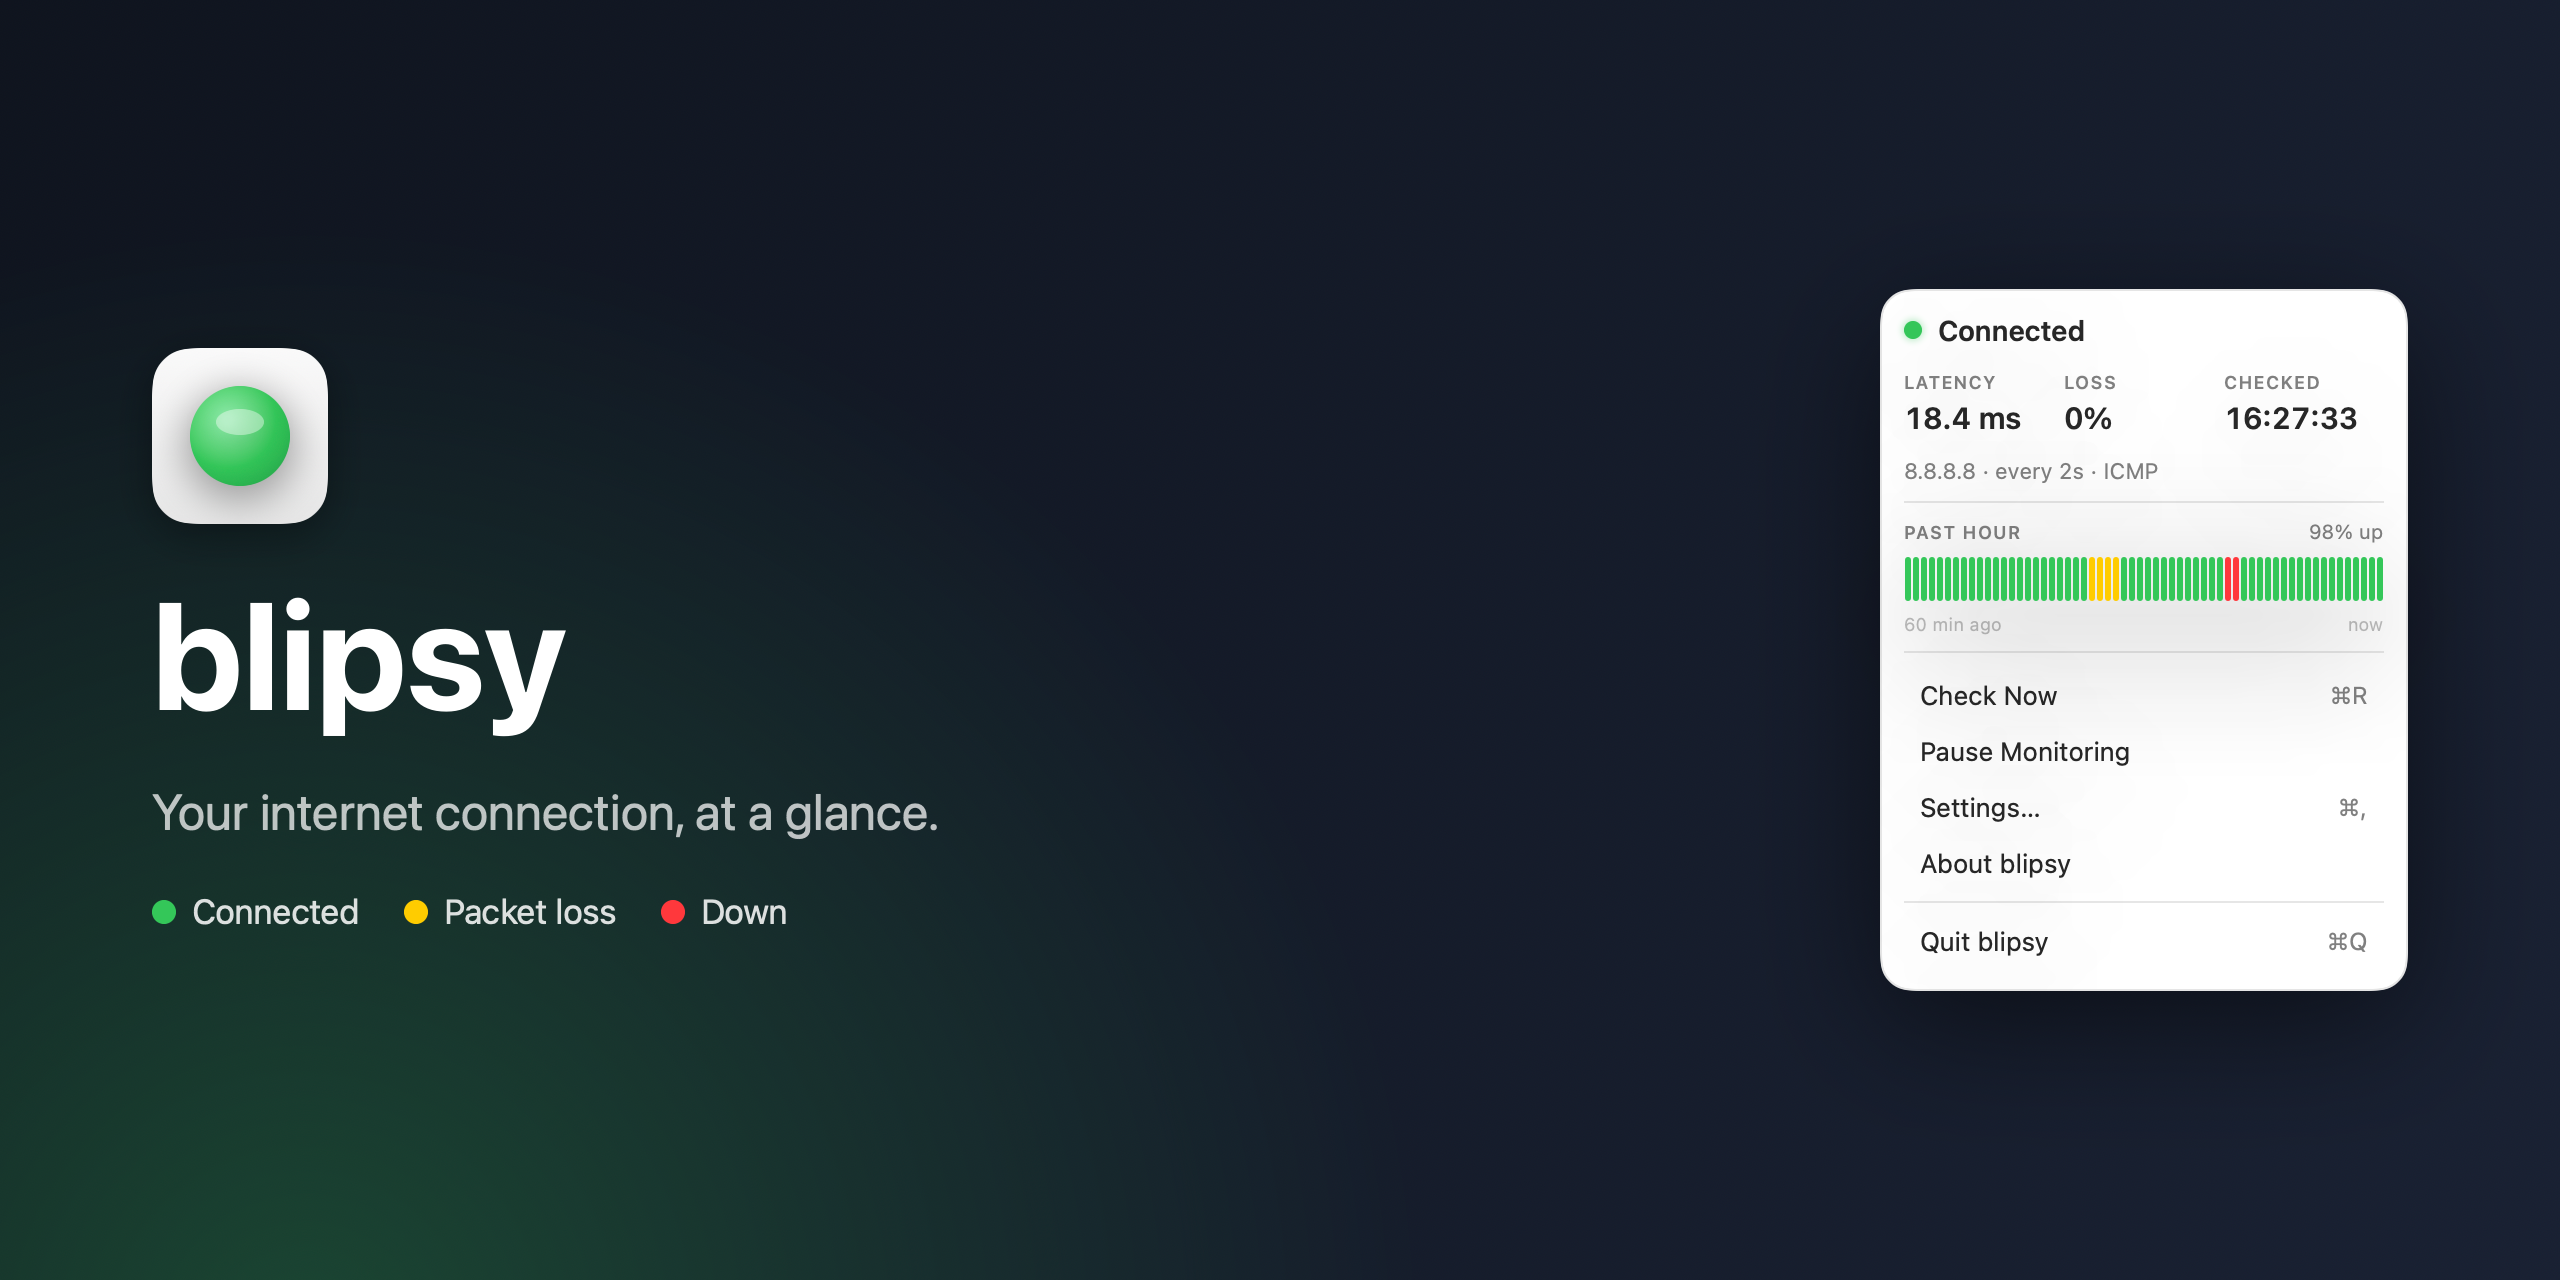
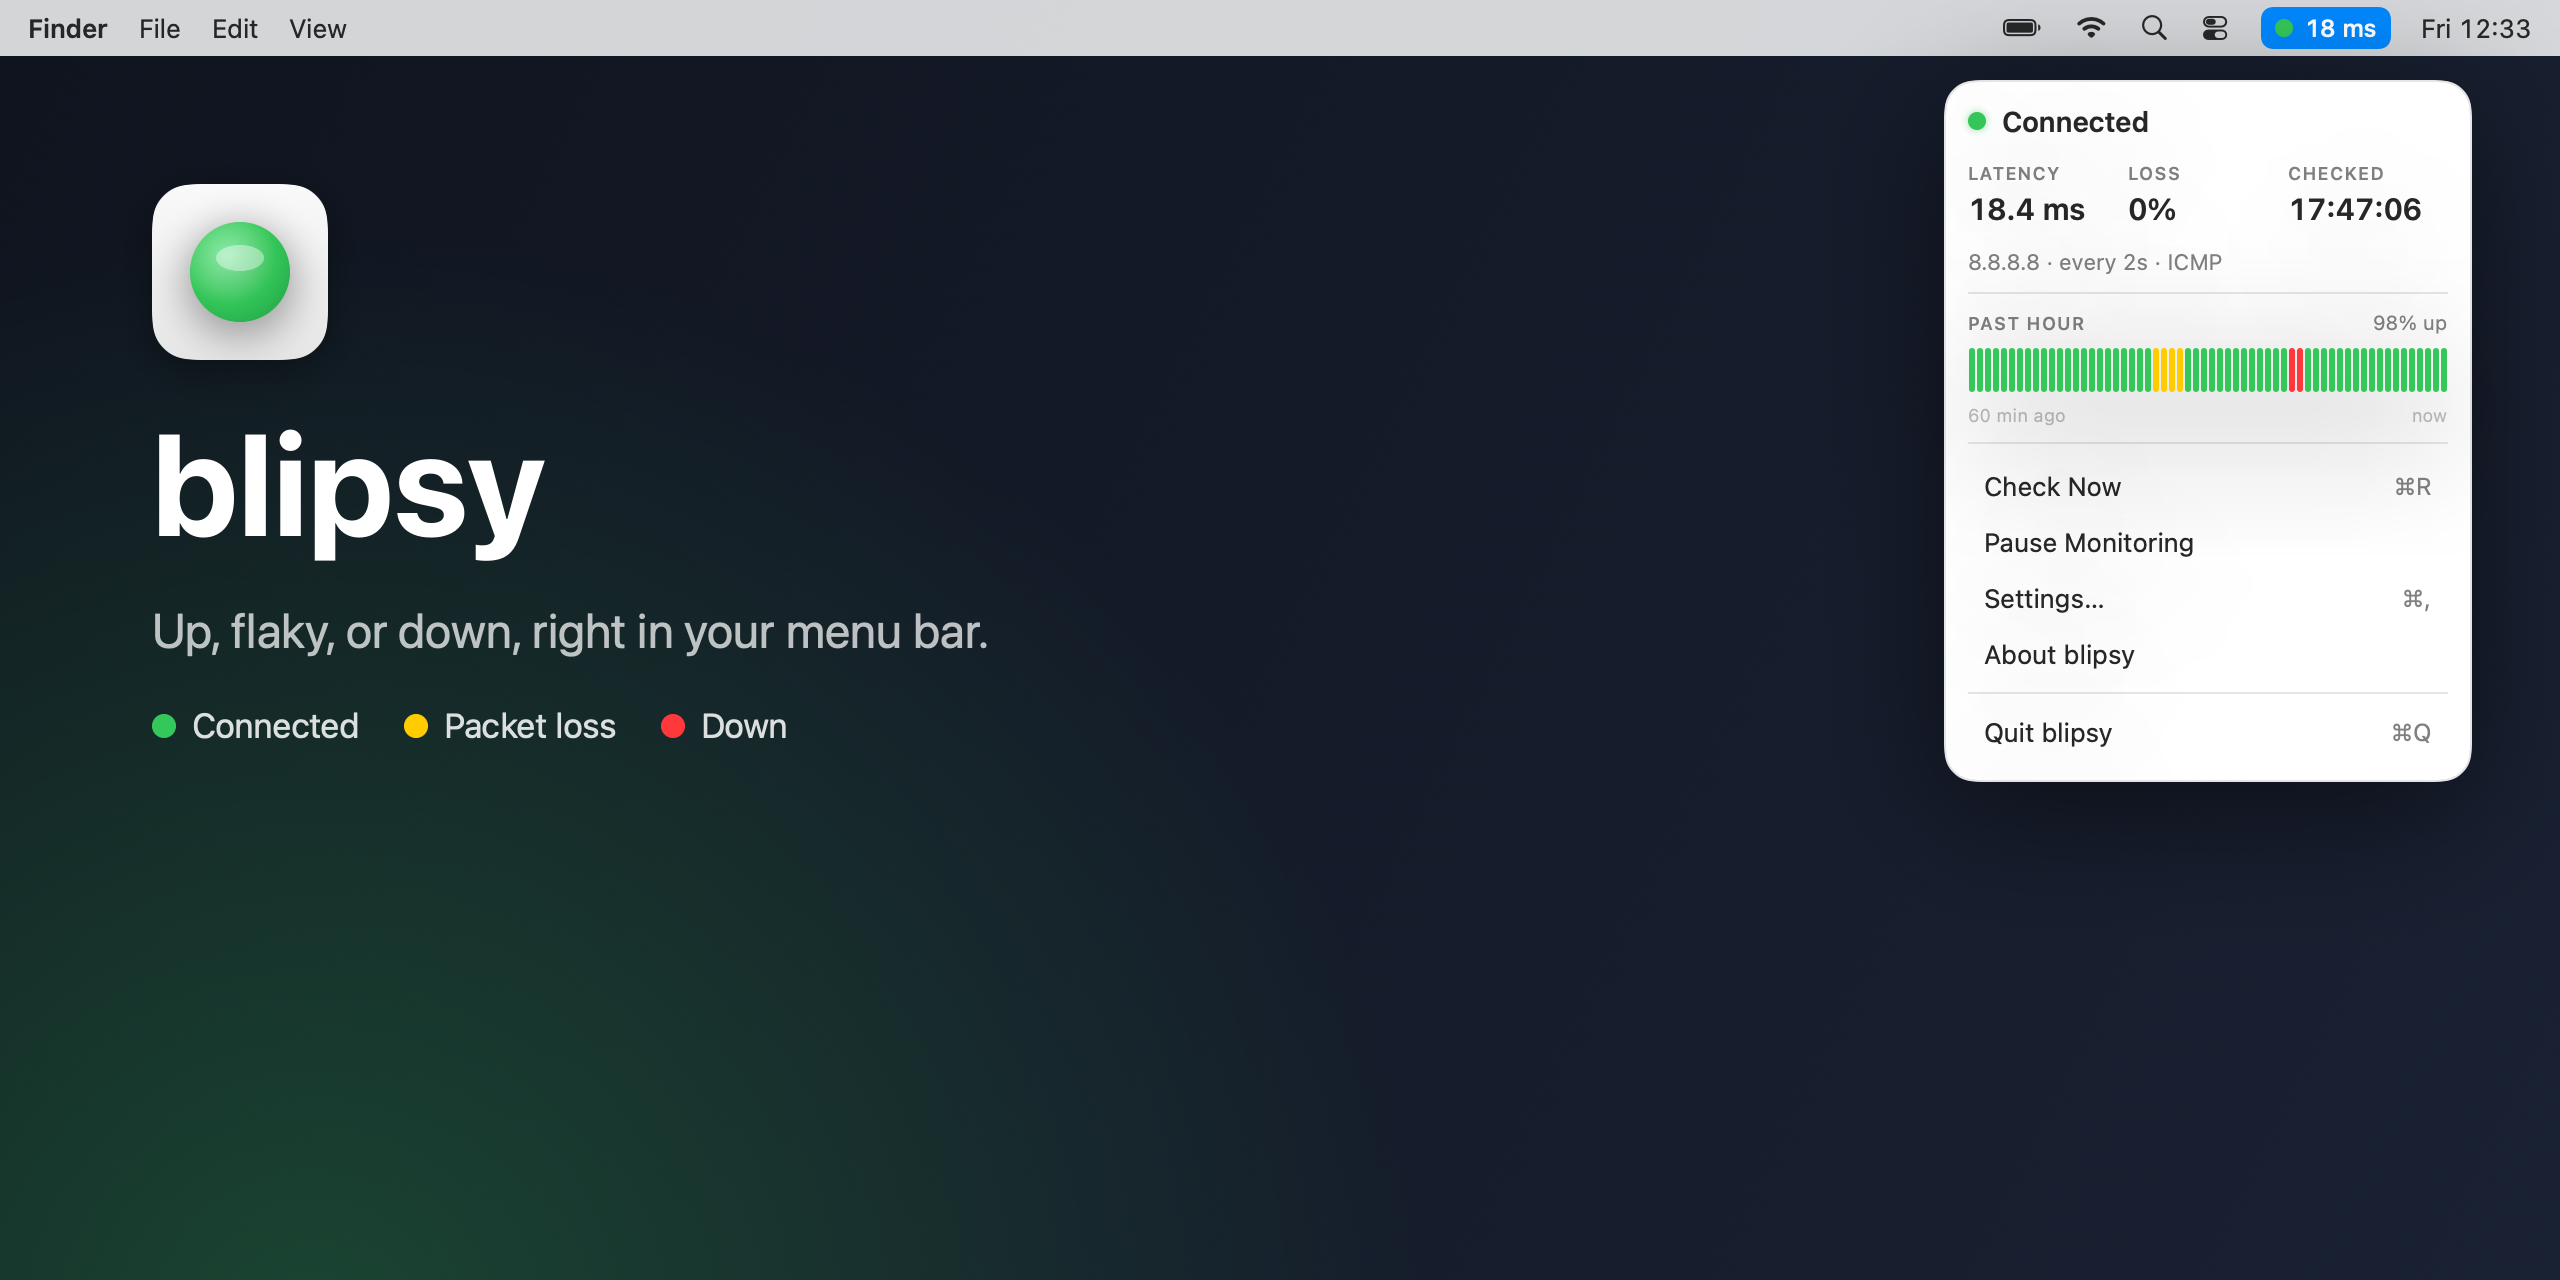
docs(site): show the menu bar in the social preview card

diff --git a/Sources/blipsy/Screenshots.swift b/Sources/blipsy/Screenshots.swift
@@ -116,7 +116,8 @@ enum Screenshots {
     // MARK: - Social preview card (1280x640)
 
     private static func socialCard(_ model: AppModel) -> some View {
-        ZStack {
+        ZStack(alignment: .top) {
+            // Desktop wallpaper.
             LinearGradient(colors: [Color(red: 0.06, green: 0.08, blue: 0.12),
                                     Color(red: 0.10, green: 0.13, blue: 0.20)],
                            startPoint: .topLeading, endPoint: .bottomTrailing)
@@ -124,32 +125,42 @@ enum Screenshots {
                     colors: [Color(nsColor: .systemGreen).opacity(0.26), .clear],
                     center: .init(x: 0.12, y: 1.05), startRadius: 0, endRadius: 560))
 
-            HStack(spacing: 40) {
-                VStack(alignment: .leading, spacing: 20) {
-                    appMark
-                    Text("blipsy")
-                        .font(.system(size: 76, weight: .bold))
-                        .foregroundStyle(.white)
-                    Text("Your internet connection, at a glance.")
-                        .font(.system(size: 25))
-                        .foregroundStyle(.white.opacity(0.72))
-                    HStack(spacing: 22) {
-                        legend(Color(nsColor: .systemGreen), "Connected")
-                        legend(Color(nsColor: .systemYellow), "Packet loss")
-                        legend(Color(nsColor: .systemRed), "Down")
+            VStack(spacing: 0) {
+                // The macOS menu bar with the blipsy item highlighted.
+                menuBar
+                HStack(alignment: .top, spacing: 40) {
+                    VStack(alignment: .leading, spacing: 18) {
+                        appMark
+                        Text("blipsy")
+                            .font(.system(size: 72, weight: .bold))
+                            .foregroundStyle(.white)
+                        Text("Up, flaky, or down, right in your menu bar.")
+                            .font(.system(size: 24))
+                            .foregroundStyle(.white.opacity(0.72))
+                        HStack(spacing: 22) {
+                            legend(Color(nsColor: .systemGreen), "Connected")
+                            legend(Color(nsColor: .systemYellow), "Packet loss")
+                            legend(Color(nsColor: .systemRed), "Down")
+                        }
+                        .padding(.top, 6)
                     }
-                    .padding(.top, 6)
+                    .padding(.leading, 76)
+                    .padding(.top, 64)
+
+                    Spacer(minLength: 20)
+
+                    // Panel dropped open from the menu bar item on the right.
+                    MenuPanelView(model: model, onSettings: {}, onAbout: {}, onQuit: {})
+                        .background(Color(nsColor: .windowBackgroundColor))
+                        .clipShape(RoundedRectangle(cornerRadius: 16, style: .continuous))
+                        .overlay(RoundedRectangle(cornerRadius: 16, style: .continuous)
+                            .strokeBorder(Color.black.opacity(0.10)))
+                        .shadow(color: .black.opacity(0.5), radius: 34, y: 18)
+                        .padding(.top, 12)
+                        .padding(.trailing, 44)
                 }
-                Spacer(minLength: 20)
-                MenuPanelView(model: model, onSettings: {}, onAbout: {}, onQuit: {})
-                    .background(Color(nsColor: .windowBackgroundColor))
-                    .clipShape(RoundedRectangle(cornerRadius: 16, style: .continuous))
-                    .overlay(RoundedRectangle(cornerRadius: 16, style: .continuous)
-                        .strokeBorder(Color.black.opacity(0.10)))
-                    .shadow(color: .black.opacity(0.5), radius: 34, y: 18)
+                Spacer()
             }
-            .padding(.horizontal, 76)
-            .padding(.vertical, 56)
         }
         .frame(width: 1280, height: 640)
     }
